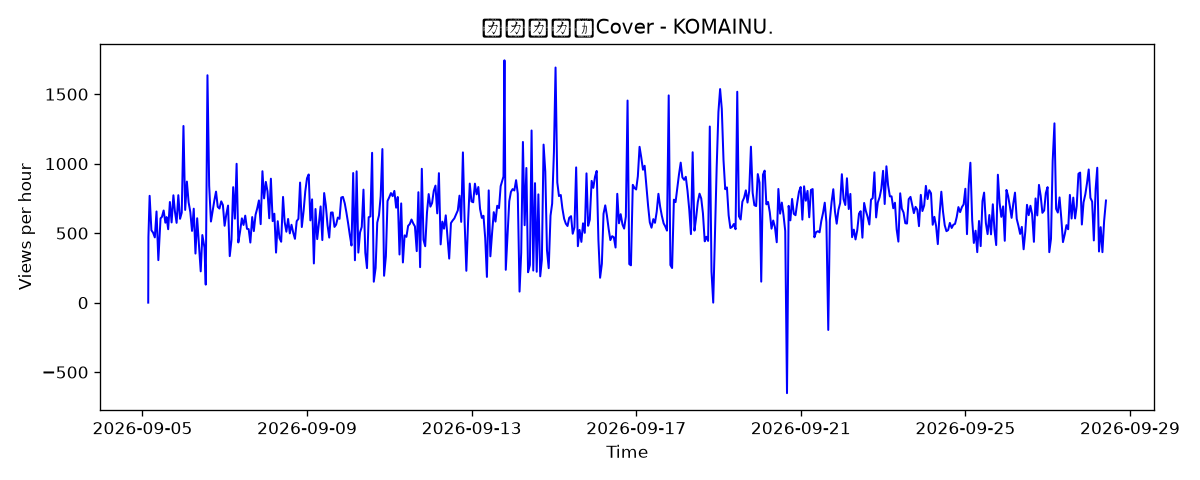
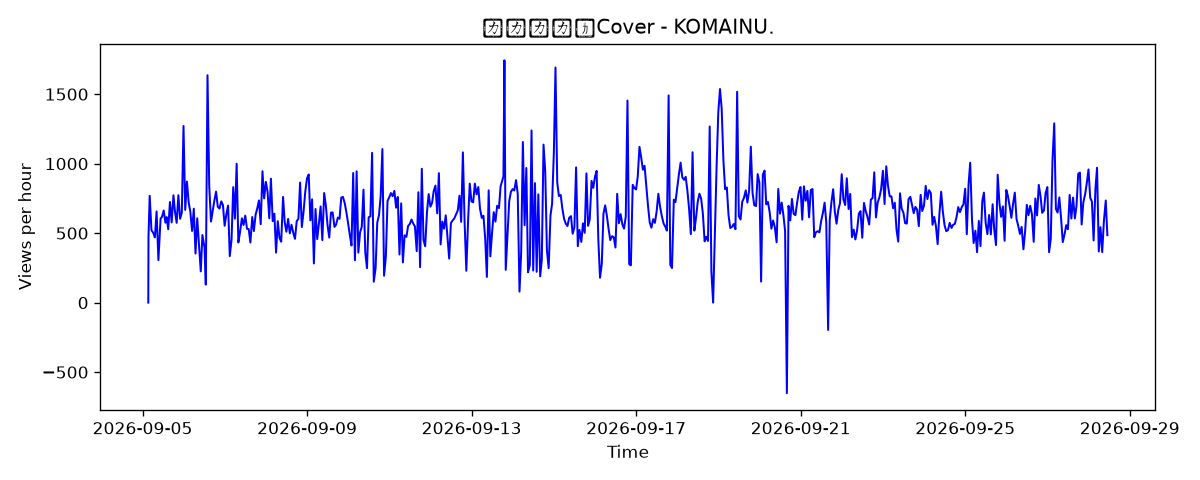
Update processed CSV and analysis report

diff --git a/analysis_report.md b/analysis_report.md
@@ -1,14 +1,14 @@
 # 📊 自動分析レポート
-生成時刻: **2026-09-28 01:01:58.506335**
+生成時刻: **2026-09-28 02:00:39.021821**
 
 ## 🏆 成長速度ランキング
 
 | videoId     |     total_growth |   avg_hourly |   max_spike |
 |:------------|-----------------:|-------------:|------------:|
-| T24rF_x0TmQ |      6.04404e+06 |    11540.6   |     3       |
-| xJQ6KrmdpD0 |      1.06356e+06 |     1898.13  |     3.06987 |
-| SnZvS3f5IrA | 365739           |      653.159 |     3       |
-| pRy8kStWlAw | 146714           |      261.969 |     3       |
+| T24rF_x0TmQ |      6.04404e+06 |     11540.6  |     3       |
+| xJQ6KrmdpD0 |      1.06537e+06 |      1898.15 |     3.06987 |
+| SnZvS3f5IrA | 366200           |       652.86 |     3       |
+| pRy8kStWlAw | 146910           |       261.87 |     3       |
 
 
 
